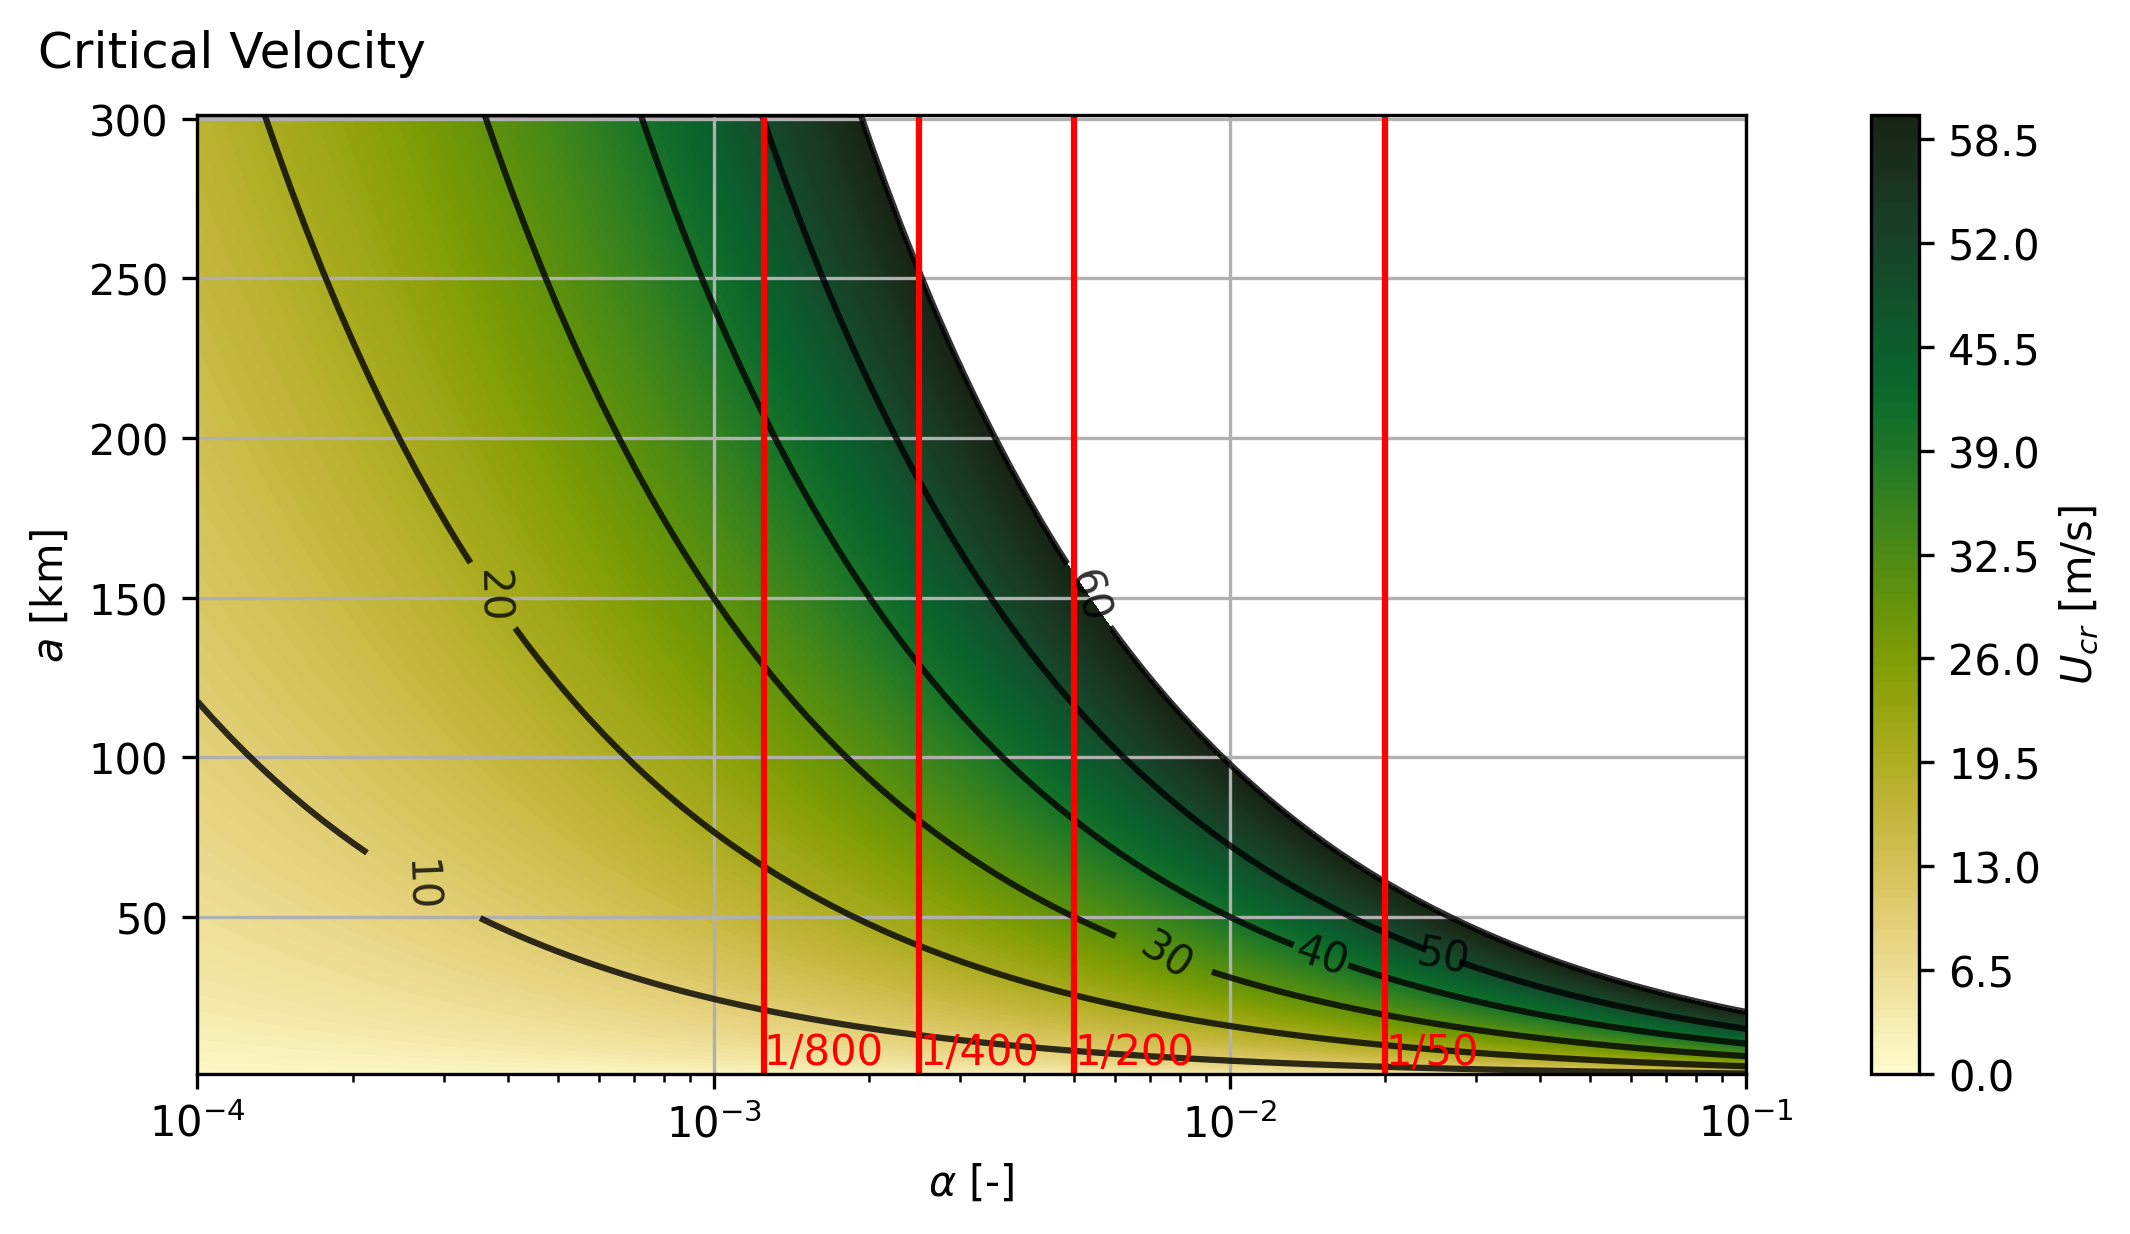
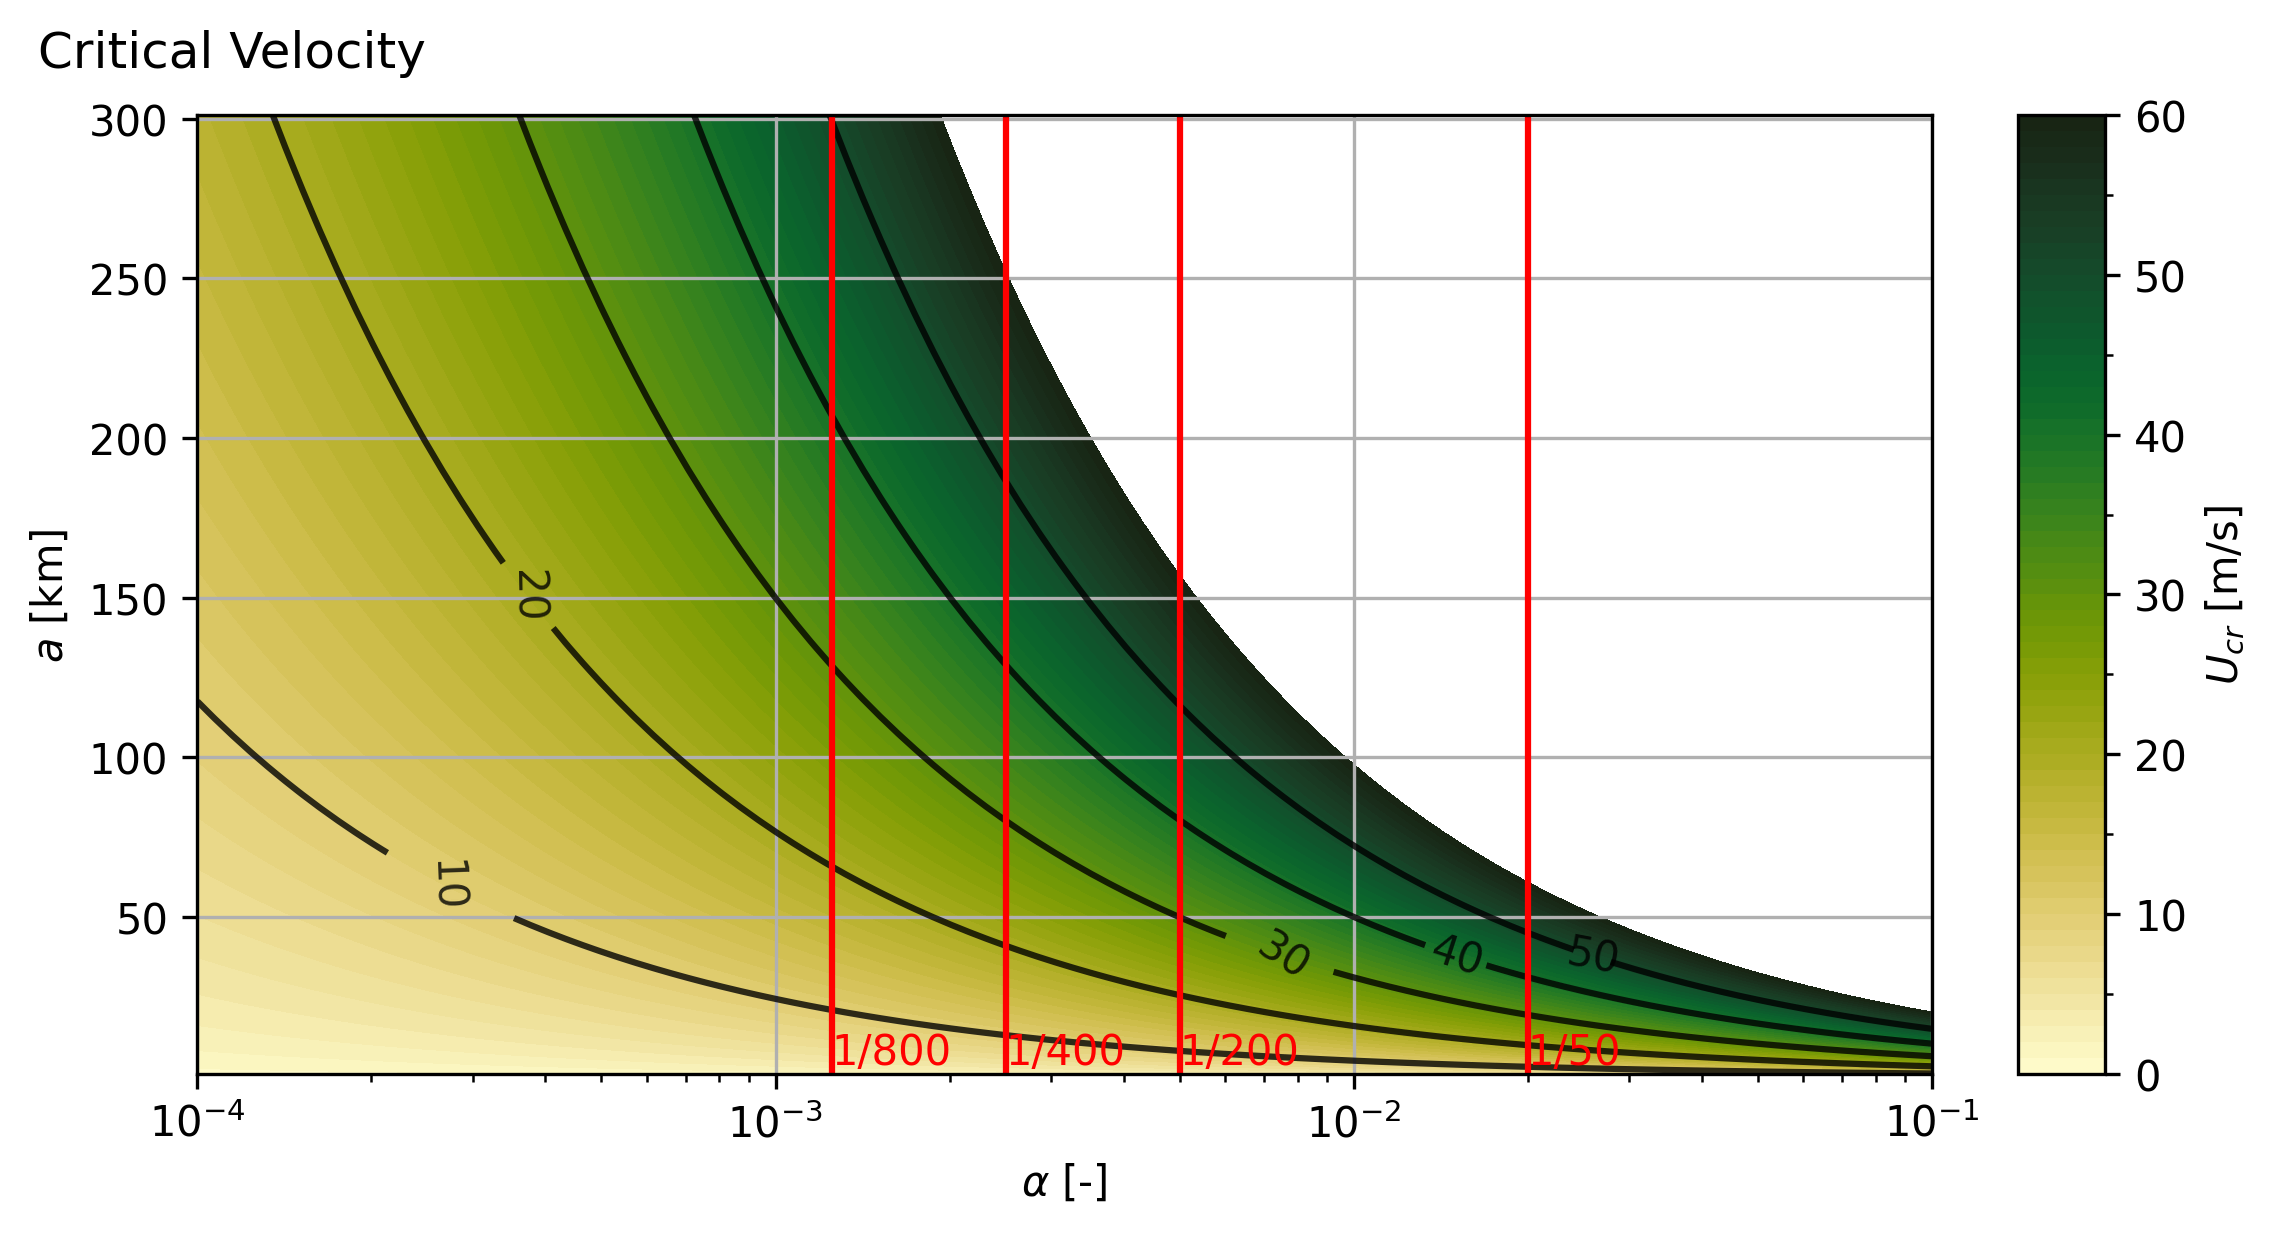
update figures

diff --git a/theory/theory_part2.py b/theory/theory_part2.py
@@ -39,37 +39,57 @@ def theory_figure_speed_vs_size_alpha(
     Ucr = ft.critical_velocity_sloped(grid_a, grid_alpha)
 
     # Figure
-    fig = plt.figure()
+    fig, ax = plt.subplots(1, 1)
     fig.set_size_inches(FIGSIZE_NORMAL)
     fig.set_dpi(FIG_DPI)
     fig.set_layout_engine("compressed")
     fig.suptitle("Critical Velocity", va="top", ha="left", x=0.01)
 
-    cl = plt.contour(
+    # Plots
+    cl = ax.contour(
         alpha,
         a / 1e3,
         Ucr,
-        levels=np.arange(U.min(), U.max() + 10, 10),
+        levels=np.arange(0, 60 + 0.1, 10)[:-1],
         colors="black",
         alpha=0.8,
     )
-    plt.clabel(cl, fmt="%2.0f")
-    plt.contourf(alpha, a / 1e3, Ucr, levels=U, cmap=cmo.cm.speed)
-    cb = plt.colorbar()
+    ax.clabel(cl, fmt="%2.0f")
+
+    cf = ax.contourf(
+        alpha,
+        a / 1e3,
+        Ucr,
+        levels=np.arange(0, 60 + 0.1, 1),
+        cmap=cmo.cm.speed,
+    )
+
+    # Colorbar
+    div = make_axes_locatable(ax)
+    cax = div.append_axes(position="right",size="5%",pad="5%")
+    cb = fig.colorbar(cf, cax=cax)
     cb.set_label("$U_{cr}$ [m/s]")
-    plt.xlabel("$\\alpha$ [-]")
-    plt.ylabel("$a$ [km]")
-    plt.grid()
-    plt.xscale("log")
+    cb.set_ticks(np.arange(0, 60 + 1, 10))
+    cb.set_ticks(np.arange(0, 60 + 1, 5), minor=True)
+
+    # Other
+    ax.set_xlabel("$\\alpha$ [-]")
+    ax.set_ylabel("$a$ [km]")
+    ax.grid()
+    ax.set_xscale("log")
+
+    # Lines of constant alpha
     for _angle in [1 / 50, 1 / 400, 1 / 200, 1 / 800]:
-        plt.text(
+        ax.text(
             _angle,
             0.01,
             f"1/{1/_angle:0.0f}",
             color="red",
-            transform=plt.gca().get_xaxis_transform(),
+            transform=ax.get_xaxis_transform(),
         )
-        plt.axvline(_angle, color="red")
+        ax.axvline(_angle, color="red")
+
+    # Save figure
     fig.get_layout_engine().execute(fig)
     fig.savefig(
         savename,
@@ -120,24 +140,25 @@ def theory_figure_wavelength_vs_alpha_speed(
         alpha=0.8,
     )
     ax.clabel(cl, fmt="%2.0f")
+
     cf = ax.contourf(
         alpha,
         velocity,
         wavelength / 1e3,
-        levels=np.linspace(0, 7e5, 50) / 1e3,
+        levels=np.arange(0, 7e5 + 1, 1e4) / 1e3,
         cmap=cmo.cm.amp,
         # extend="max",
     )
 
     # Colorbar
-    div = make_axes_locatable(plt.gca())
+    div = make_axes_locatable(ax)
     cax = div.append_axes(position="right",size="5%",pad="5%")
     cb = fig.colorbar(cf, cax=cax)
     cb.set_label("$\\lambda_0$ [km]")
     cb.set_ticks(np.arange(0, 700 + 1, 100))
     cb.set_ticks(np.arange(0, 500 + 1, 25), minor=True)
 
-    # Box
+    # Other
     ax.set_xlabel("$\\alpha$ [-]")
     ax.set_ylabel("$U$ [m/s]")
     ax.grid()
